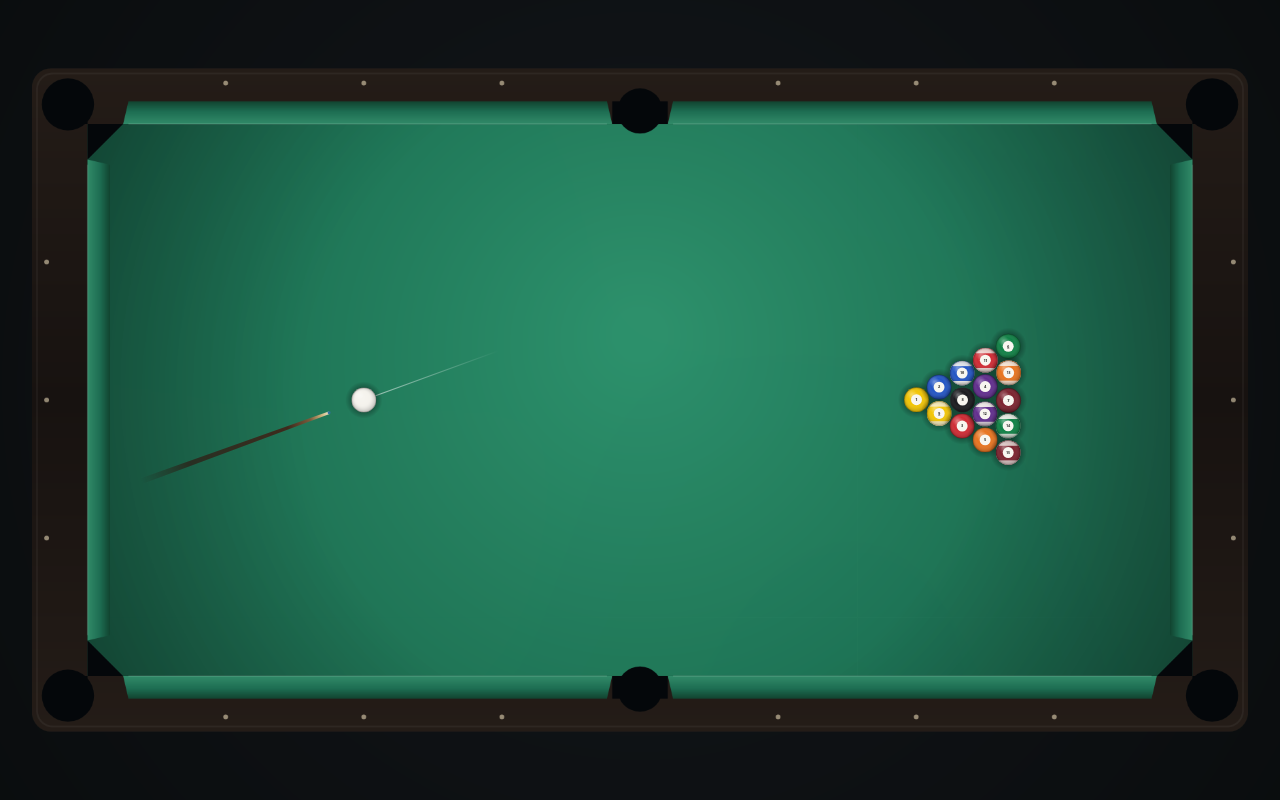
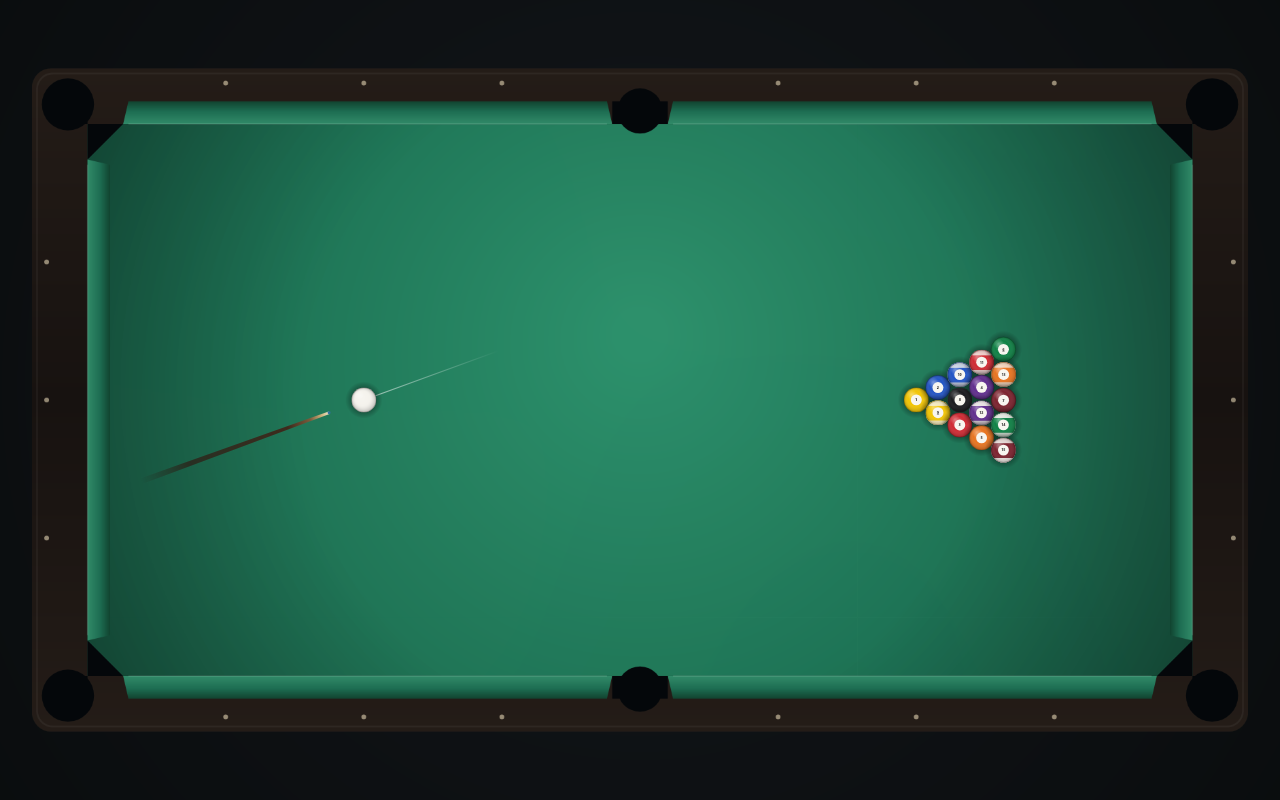
Tight rack: 0.8mm spacing instead of 4mm, smaller jitter
At 4mm the gaps between the racked balls were visible on screen. Swept spacing against jitter and settled on 0.8mm spacing with +/-0.8mm deterministic jitter: under half a pixel on screen, every pair still clear of each other, and 10 of 15 balls move on a full-power break.

Changed region(s): [[0.7188, 0.4062, 0.8125, 0.5938]]

diff --git a/src/core/physics.ts b/src/core/physics.ts
@@ -88,17 +88,22 @@ export const makeBall = (id: number, x: number, y: number): Ball => ({
   pocketed: false,
 });
 
-const RACK_SPACING = 2 * BALL_R + 0.004;
+/**
+ * Balls are racked essentially touching: 0.8mm apart, which is under half a
+ * pixel on screen and reads as a tight rack.
+ */
+const RACK_SPACING = 2 * BALL_R + 0.0008;
 
 /**
  * A real rack is never perfectly tight. With a mathematically perfect triangle
  * the break behaves like a Newton's cradle: the impulse runs straight through
- * and only the back of the rack moves. A few tenths of a millimetre of
- * deterministic jitter is enough to make the pack scatter like a real one.
+ * and only the back of the rack moves. Under a millimetre of deterministic
+ * jitter is enough to make the pack scatter, and still leaves every pair of
+ * balls clear of each other.
  */
 function rackJitter(seed: number): number {
   const x = Math.sin(seed * 12.9898) * 43758.5453;
-  return (x - Math.floor(x) - 0.5) * 0.0035;
+  return (x - Math.floor(x) - 0.5) * 0.0016;
 }
 
 /**
